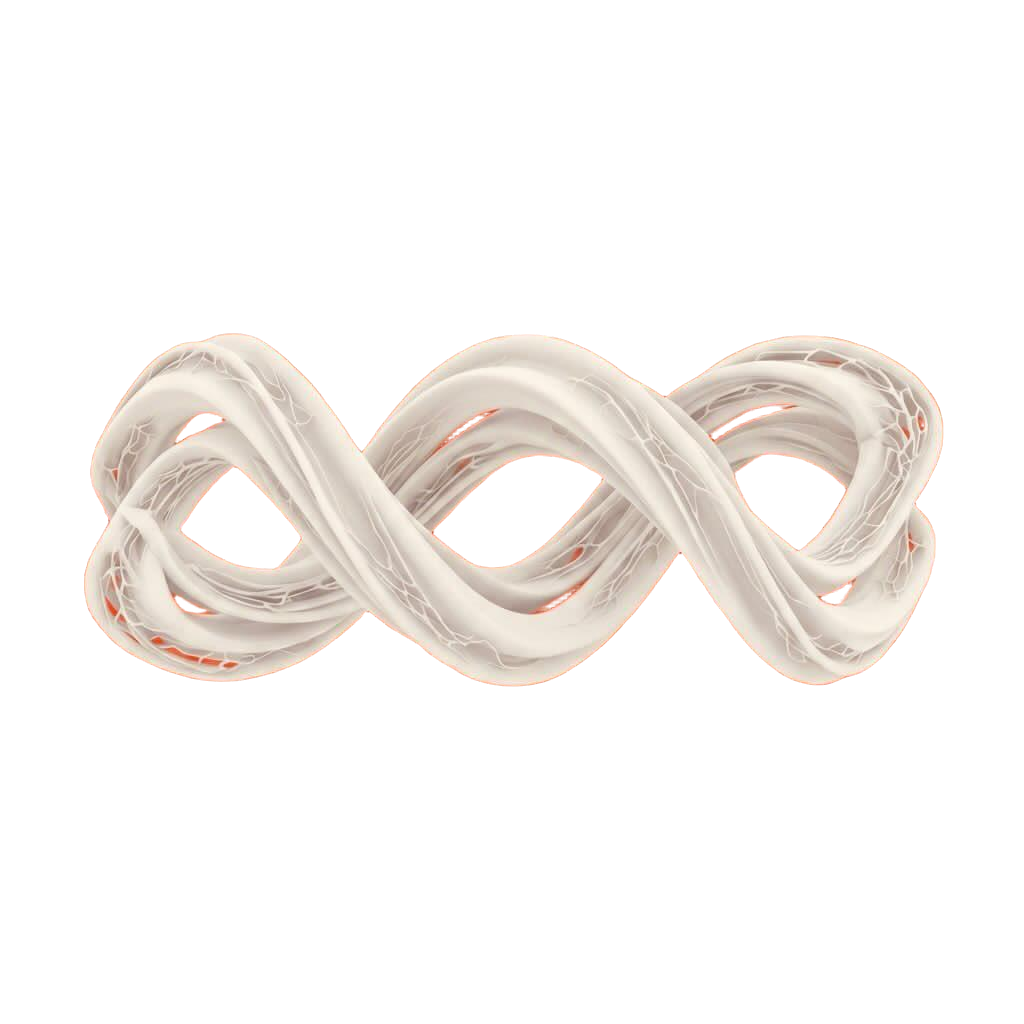
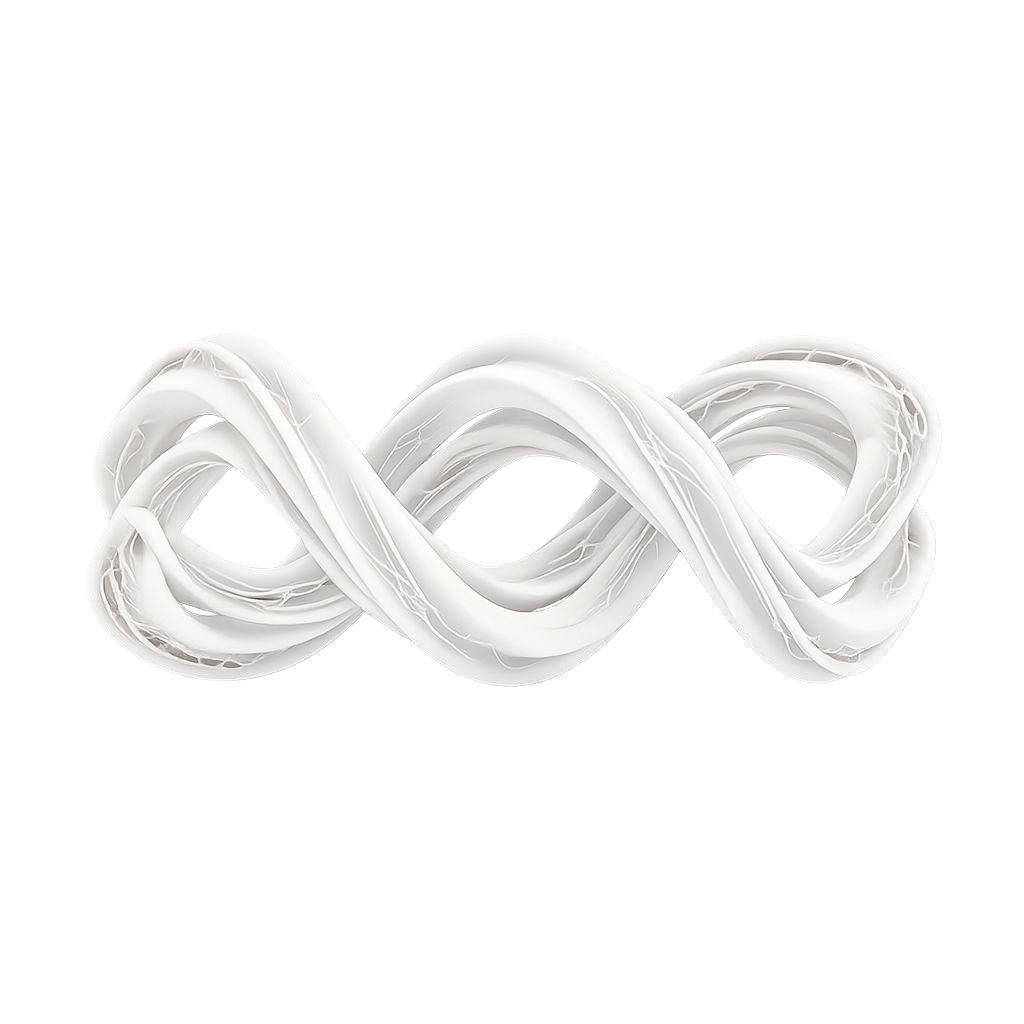
change log and color of navbar

Changed region(s): [[0.0625, 0.3125, 0.9375, 0.6875]]

diff --git a/src/components/FolderView.tsx b/src/components/FolderView.tsx
@@ -656,14 +656,6 @@ OS1 is dedicated to providing a safe, supportive environment where people can im
    - Provide clear AI capabilities and limitations
    - Design for user empowerment and growth
 
-### Development Setup
-
-\`\`\`bash
-git clone https://github.com/jesuscopado/OS1.git
-cd OS1
-npm install
-npm run dev
-\`\`\`
 
 ### Areas of Contribution
 
@@ -1289,43 +1281,43 @@ Thank you for being part of our mission to help people build better relationship
           </div>
         )
       },
-      {
-        id: 'github-social',
-        name: 'GitHub',
-        icon: (
-          <svg width="24" height="24" fill="currentColor" className="text-gray-200" viewBox="0 0 24 24">
-            <path d="M12 .297c-6.63 0-12 5.373-12 12 0 5.303 3.438 9.8 8.205 11.385.6.113.82-.258.82-.577v-2.234c-3.338.726-4.033-1.416-4.033-1.416-.546-1.387-1.333-1.757-1.333-1.757-1.089-.745.083-.729.083-.729 1.205.084 1.84 1.236 1.84 1.236 1.07 1.834 2.809 1.304 3.495.997.108-.775.418-1.305.762-1.605-2.665-.305-5.466-1.332-5.466-5.93 0-1.31.469-2.381 1.236-3.221-.124-.303-.535-1.523.117-3.176 0 0 1.008-.322 3.301 1.23a11.52 11.52 0 013.003-.404c1.018.005 2.045.138 3.003.404 2.291-1.553 3.297-1.23 3.297-1.23.653 1.653.242 2.873.118 3.176.77.84 1.235 1.911 1.235 3.221 0 4.61-2.804 5.624-5.475 5.921.43.372.823 1.102.823 2.222v3.293c0 .322.218.694.825.576C20.565 22.092 24 17.592 24 12.297c0-6.627-5.373-12-12-12" />
-          </svg>
-        ),
-        description: 'View OS1 on GitHub',
-        type: 'component',
-        component: (
-          <div className="space-y-6">
-            <div className="bg-gray-800/50 rounded-xl p-6 border border-gray-700/30">
-              <div className="text-center">
-                <svg width="48" height="48" fill="currentColor" className="text-gray-200 mx-auto mb-4" viewBox="0 0 24 24">
-                  <path d="M12 .297c-6.63 0-12 5.373-12 12 0 5.303 3.438 9.8 8.205 11.385.6.113.82-.258.82-.577v-2.234c-3.338.726-4.033-1.416-4.033-1.416-.546-1.387-1.333-1.757-1.333-1.757-1.089-.745.083-.729.083-.729 1.205.084 1.84 1.236 1.84 1.236 1.07 1.834 2.809 1.304 3.495.997.108-.775.418-1.305.762-1.605-2.665-.305-5.466-1.332-5.466-5.93 0-1.31.469-2.381 1.236-3.221-.124-.303-.535-1.523.117-3.176 0 0 1.008-.322 3.301 1.23a11.52 11.52 0 013.003-.404c1.018.005 2.045.138 3.003.404 2.291-1.553 3.297-1.23 3.297-1.23.653 1.653.242 2.873.118 3.176.77.84 1.235 1.911 1.235 3.221 0 4.61-2.804 5.624-5.475 5.921.43.372.823 1.102.823 2.222v3.293c0 .322.218.694.825.576C20.565 22.092 24 17.592 24 12.297c0-6.627-5.373-12-12-12" />
-                </svg>
-                <h2 className="text-2xl font-bold text-white mb-2">OS1 on GitHub</h2>
-                <p className="text-gray-400 mb-6">
-                  Explore the source code, contribute, and star the project!
-                </p>
-                <a
-                  href="https://github.com/jesuscopado"
-                  target="_blank"
-                  rel="noopener noreferrer"
-                  className="inline-flex items-center space-x-2 bg-gray-700/20 hover:bg-gray-700/30 text-gray-200 px-6 py-3 rounded-lg transition-all duration-300 hover:scale-105 border border-gray-700/30"
-                >
-                  <svg width="20" height="20" fill="currentColor" className="text-gray-200" viewBox="0 0 24 24">
-                    <path d="M12 .297c-6.63 0-12 5.373-12 12 0 5.303 3.438 9.8 8.205 11.385.6.113.82-.258.82-.577v-2.234c-3.338.726-4.033-1.416-4.033-1.416-.546-1.387-1.333-1.757-1.333-1.757-1.089-.745.083-.729.083-.729 1.205.084 1.84 1.236 1.84 1.236 1.07 1.834 2.809 1.304 3.495.997.108-.775.418-1.305.762-1.605-2.665-.305-5.466-1.332-5.466-5.93 0-1.31.469-2.381 1.236-3.221-.124-.303-.535-1.523.117-3.176 0 0 1.008-.322 3.301 1.23a11.52 11.52 0 013.003-.404c1.018.005 2.045.138 3.003.404 2.291-1.553 3.297-1.23 3.297-1.23.653 1.653.242 2.873.118 3.176.77.84 1.235 1.911 1.235 3.221 0 4.61-2.804 5.624-5.475 5.921.43.372.823 1.102.823 2.222v3.293c0 .322.218.694.825.576C20.565 22.092 24 17.592 24 12.297c0-6.627-5.373-12-12-12" />
-                  </svg>
-                  <span>View on GitHub</span>
-                </a>
-              </div>
-            </div>
-          </div>
-        )
-      },
+      // {
+      //   id: 'github-social',
+      //   name: 'GitHub',
+      //   icon: (
+      //     <svg width="24" height="24" fill="currentColor" className="text-gray-200" viewBox="0 0 24 24">
+      //       <path d="M12 .297c-6.63 0-12 5.373-12 12 0 5.303 3.438 9.8 8.205 11.385.6.113.82-.258.82-.577v-2.234c-3.338.726-4.033-1.416-4.033-1.416-.546-1.387-1.333-1.757-1.333-1.757-1.089-.745.083-.729.083-.729 1.205.084 1.84 1.236 1.84 1.236 1.07 1.834 2.809 1.304 3.495.997.108-.775.418-1.305.762-1.605-2.665-.305-5.466-1.332-5.466-5.93 0-1.31.469-2.381 1.236-3.221-.124-.303-.535-1.523.117-3.176 0 0 1.008-.322 3.301 1.23a11.52 11.52 0 013.003-.404c1.018.005 2.045.138 3.003.404 2.291-1.553 3.297-1.23 3.297-1.23.653 1.653.242 2.873.118 3.176.77.84 1.235 1.911 1.235 3.221 0 4.61-2.804 5.624-5.475 5.921.43.372.823 1.102.823 2.222v3.293c0 .322.218.694.825.576C20.565 22.092 24 17.592 24 12.297c0-6.627-5.373-12-12-12" />
+      //     </svg>
+      //   ),
+      //   description: 'View OS1 on GitHub',
+      //   type: 'component',
+      //   component: (
+      //     <div className="space-y-6">
+      //       <div className="bg-gray-800/50 rounded-xl p-6 border border-gray-700/30">
+      //         <div className="text-center">
+      //           <svg width="48" height="48" fill="currentColor" className="text-gray-200 mx-auto mb-4" viewBox="0 0 24 24">
+      //             <path d="M12 .297c-6.63 0-12 5.373-12 12 0 5.303 3.438 9.8 8.205 11.385.6.113.82-.258.82-.577v-2.234c-3.338.726-4.033-1.416-4.033-1.416-.546-1.387-1.333-1.757-1.333-1.757-1.089-.745.083-.729.083-.729 1.205.084 1.84 1.236 1.84 1.236 1.07 1.834 2.809 1.304 3.495.997.108-.775.418-1.305.762-1.605-2.665-.305-5.466-1.332-5.466-5.93 0-1.31.469-2.381 1.236-3.221-.124-.303-.535-1.523.117-3.176 0 0 1.008-.322 3.301 1.23a11.52 11.52 0 013.003-.404c1.018.005 2.045.138 3.003.404 2.291-1.553 3.297-1.23 3.297-1.23.653 1.653.242 2.873.118 3.176.77.84 1.235 1.911 1.235 3.221 0 4.61-2.804 5.624-5.475 5.921.43.372.823 1.102.823 2.222v3.293c0 .322.218.694.825.576C20.565 22.092 24 17.592 24 12.297c0-6.627-5.373-12-12-12" />
+      //           </svg>
+      //           <h2 className="text-2xl font-bold text-white mb-2">OS1 on GitHub</h2>
+      //           <p className="text-gray-400 mb-6">
+      //             Explore the source code, contribute, and star the project!
+      //           </p>
+      //           <a
+      //             href="https://github.com/jesuscopado"
+      //             target="_blank"
+      //             rel="noopener noreferrer"
+      //             className="inline-flex items-center space-x-2 bg-gray-700/20 hover:bg-gray-700/30 text-gray-200 px-6 py-3 rounded-lg transition-all duration-300 hover:scale-105 border border-gray-700/30"
+      //           >
+      //             <svg width="20" height="20" fill="currentColor" className="text-gray-200" viewBox="0 0 24 24">
+      //               <path d="M12 .297c-6.63 0-12 5.373-12 12 0 5.303 3.438 9.8 8.205 11.385.6.113.82-.258.82-.577v-2.234c-3.338.726-4.033-1.416-4.033-1.416-.546-1.387-1.333-1.757-1.333-1.757-1.089-.745.083-.729.083-.729 1.205.084 1.84 1.236 1.84 1.236 1.07 1.834 2.809 1.304 3.495.997.108-.775.418-1.305.762-1.605-2.665-.305-5.466-1.332-5.466-5.93 0-1.31.469-2.381 1.236-3.221-.124-.303-.535-1.523.117-3.176 0 0 1.008-.322 3.301 1.23a11.52 11.52 0 013.003-.404c1.018.005 2.045.138 3.003.404 2.291-1.553 3.297-1.23 3.297-1.23.653 1.653.242 2.873.118 3.176.77.84 1.235 1.911 1.235 3.221 0 4.61-2.804 5.624-5.475 5.921.43.372.823 1.102.823 2.222v3.293c0 .322.218.694.825.576C20.565 22.092 24 17.592 24 12.297c0-6.627-5.373-12-12-12" />
+      //             </svg>
+      //             <span>View on GitHub</span>
+      //           </a>
+      //         </div>
+      //       </div>
+      //     </div>
+      //   )
+      // },
       {
         id: 'telegram-social',
         name: 'Telegram',

diff --git a/src/components/Desktop.tsx b/src/components/Desktop.tsx
@@ -5,7 +5,7 @@ import loadingGif from "../assets/bcf67b6246b68b1f43a98b219fabe105.gif";
 import {
   Settings,
   Network,
-  Activity,
+  // Activity,
   Wifi,
   Battery,
   Volume2,
@@ -35,6 +35,7 @@ import Taskbar from "./Taskbar";
 // import Terminal from "./Terminal";
 import FolderView from "./FolderView";
 import XLogo from "./XLogo";
+import OS1Logo from "./OmniaLogo";
 
 interface FolderItem {
   id: string;
@@ -477,13 +478,13 @@ const Desktop: React.FC = () => {
       color: "from-orange-700 to-orange-900",
       description: "System documentation and guides",
     },
-    {
-      id: "neural",
-      name: "Neural Network",
-      icon: <Activity className="w-6 h-6" />,
-      color: "from-orange-800 to-orange-950",
-      description: "AI processing modules",
-    },
+    // {
+    //   id: "neural",
+    //   name: "Neural Network",
+    //   icon: <Activity className="w-6 h-6" />,
+    //   color: "from-orange-800 to-orange-950",
+    //   description: "AI processing modules",
+    // },
     {
       id: "web",
       name: "Web Interface",
@@ -527,84 +528,29 @@ const Desktop: React.FC = () => {
       {/* Notification Bar */}
       <div
         className={`
-        fixed top-0 left-0 right-0 z-50 bg-black/90 backdrop-blur-xl border-b border-orange-700/20
+        fixed top-0 left-0 right-0 z-50
+        border-b border-orange-800/30 theme-brightness
         ${isMobile ? "h-14" : "h-auto"}
       `}
+        style={{ background: "linear-gradient(to right, #7c2d12, #000000)" }}
       >
         <div
           className={`
-          flex items-center justify-between px-6 py-2
-          ${isMobile ? "px-4 py-2" : "px-6 py-3"}
+          flex items-center justify-between
+          ${isMobile ? "px-4 " : "px-6 "}
         `}
         >
-          <div className="relative flex-1" style={{ transform: 'translateX(-10px)' }}>
-            <div className="absolute inset-0 flex items-center justify-center pointer-events-none">
-              <svg width="250" height="250" viewBox="0 0 512 512" xmlns="http://www.w3.org/2000/svg">
-                <defs>
-
-                  <linearGradient id="g1" x1="125" y1="256" x2="205" y2="256" gradientUnits="userSpaceOnUse">
-                    <stop offset="0%" stop-color="#ff4500" stop-opacity="1" />
-                    <stop offset="100%" stop-color="#ff2200" stop-opacity="1" />
-                  </linearGradient>
-
-                  <linearGradient id="g2" x1="205" y1="256" x2="285" y2="256" gradientUnits="userSpaceOnUse">
-                    <stop offset="0%" stop-color="#ff2200" stop-opacity="1" />
-                    <stop offset="100%" stop-color="#d31010" stop-opacity="0.75" />
-                  </linearGradient>
-
-                  <linearGradient id="g3" x1="285" y1="256" x2="365" y2="256" gradientUnits="userSpaceOnUse">
-                    <stop offset="0%" stop-color="#d31010" stop-opacity="0.75" />
-                    <stop offset="100%" stop-color="#ff4500" stop-opacity="0.3" />
-                  </linearGradient>
-
-                  <linearGradient id="g4" x1="365" y1="256" x2="285" y2="256" gradientUnits="userSpaceOnUse">
-                    <stop offset="0%" stop-color="#ff4500" stop-opacity="0.3" />
-                    <stop offset="100%" stop-color="#ff1a00" stop-opacity="0.8" />
-                  </linearGradient>
-
-                  <linearGradient id="g5" x1="285" y1="256" x2="205" y2="256" gradientUnits="userSpaceOnUse">
-                    <stop offset="0%" stop-color="#ff1a00" stop-opacity="0.8" />
-                    <stop offset="50%" stop-color="#ff6000" stop-opacity="1" />
-                    <stop offset="100%" stop-color="#ff2400" stop-opacity="0.85" />
-                  </linearGradient>
-
-                  <linearGradient id="g6" x1="205" y1="256" x2="125" y2="256" gradientUnits="userSpaceOnUse">
-                    <stop offset="0%" stop-color="#ff6000" stop-opacity="0.75" />
-                    <stop offset="100%" stop-color="#ff2200" stop-opacity="0" />
-                  </linearGradient>
-                </defs>
-
-                <path d="M 125 256 C 145 220, 185 220, 205 256"
-                  fill="none" stroke="url(#g1)" stroke-width="4"
-                  stroke-linecap="round" stroke-linejoin="round" />
-
-                <path d="M 205 256 C 225 292, 265 292, 285 256"
-                  fill="none" stroke="url(#g2)" stroke-width="4"
-                  stroke-linecap="round" stroke-linejoin="round" />
-
-                <path d="M 285 256 C 305 220, 345 220, 365 256"
-                  fill="none" stroke="url(#g3)" stroke-width="4"
-                  stroke-linecap="round" stroke-linejoin="round" />
-
-                <path d="M 365 256 C 345 292, 305 292, 285 256"
-                  fill="none" stroke="url(#g4)" stroke-width="4"
-                  stroke-linecap="round" stroke-linejoin="round" />
-
-                <path d="M 285 256 C 265 220, 225 220, 205 256"
-                  fill="none" stroke="url(#g5)" stroke-width="4"
-                  stroke-linecap="round" stroke-linejoin="round" />
-
-                <path d="M 205 256 C 185 292, 145 292, 125 256"
-                  fill="none" stroke="url(#g6)" stroke-width="4"
-                  stroke-linecap="round" stroke-linejoin="round" />
-              </svg>
-            </div>
+          <div className="flex" >
+            <OS1Logo
+              size={62}
+              className=""
+            />
           </div>
 
-          <div className="flex items-center space-x-6 pr-6">
-
+          <div className="flex items-center space-x-6">
+            {/* System Metrics - Simplified on mobile */}
             {!isMobile && (
-              <div className="flex items-center space-x-3">
+              <div className="flex space-x-3">
 
                 <a
                   href="https://x.com/0xos1_tech"
@@ -630,7 +576,7 @@ const Desktop: React.FC = () => {
                     className="text-gray-200 group-hover:text-white"
                   />
                 </a>
-                <a
+                {/* <a
                   href="https://github.com/jesuscopado"
                   target="_blank"
                   rel="noopener noreferrer"
@@ -646,7 +592,7 @@ const Desktop: React.FC = () => {
                   >
                     <path d="M12 .297c-6.63 0-12 5.373-12 12 0 5.303 3.438 9.8 8.205 11.385.6.113.82-.258.82-.577v-2.234c-3.338.726-4.033-1.416-4.033-1.416-.546-1.387-1.333-1.757-1.333-1.757-1.089-.745.083-.729.083-.729 1.205.084 1.84 1.236 1.84 1.236 1.07 1.834 2.809 1.304 3.495.997.108-.775.418-1.305.762-1.605-2.665-.305-5.466-1.332-5.466-5.93 0-1.31.469-2.381 1.236-3.221-.124-.303-.535-1.523.117-3.176 0 0 1.008-.322 3.301 1.23a11.52 11.52 0 013.003-.404c1.018.005 2.045.138 3.003.404 2.291-1.553 3.297-1.23 3.297-1.23.653 1.653.242 2.873.118 3.176.77.84 1.235 1.911 1.235 3.221 0 4.61-2.804 5.624-5.475 5.921.43.372.823 1.102.823 2.222v3.293c0 .322.218.694.825.576C20.565 22.092 24 17.592 24 12.297c0-6.627-5.373-12-12-12" />
                   </svg>
-                </a>
+                </a> */}
                 <a
                   href="https://mail.google.com/mail/?view=cm&fs=1&to=contact@0xos1.fun"
                   target="_blank"
@@ -661,11 +607,8 @@ const Desktop: React.FC = () => {
                 </a>
               </div>
             )}
-          </div>
-
-          <div className="flex items-center space-x-6">
-            {/* System Metrics - Simplified on mobile */}
             {isMobile ? (
+
               <div className="flex items-center space-x-2">
                 <div className="flex items-center space-x-1 text-orange-300/80">
                   <Cpu size={12} />
@@ -775,7 +718,7 @@ const Desktop: React.FC = () => {
           className="absolute inset-0 opacity-30 transition-opacity duration-300"
           style={{
             background: `radial-gradient(circle 800px at ${mousePosition.x}px ${mousePosition.y}px, 
-              rgba(236,72,153,0.15), 
+              rgba(241, 101, 8, 0.15), 
               rgba(190,24,93,0.12), 
               transparent)`,
           }}

diff --git a/src/components/Taskbar.tsx b/src/components/Taskbar.tsx
@@ -70,7 +70,7 @@ const Taskbar: React.FC<TaskbarProps> = ({
   return (
     <div className={`
       fixed bottom-0 left-0 right-0 h-16
-      bg-gradient-to-r from-orange-900 to-black bg-opacity-95
+      bg-gradient-to-r from-orange-900 to-black
       border-t border-orange-800/30 backdrop-blur-xl
       flex items-center justify-between px-4
       theme-blur

diff --git a/src/components/OmniaLogo.tsx b/src/components/OmniaLogo.tsx
@@ -8,7 +8,7 @@ interface OS1LogoProps {
 const OS1Logo: React.FC<OS1LogoProps> = ({ size = 32, className = '' }) => {
   return (
     <div
-      className={`flex items-center justify-center ${className}`}
+      className={`flex ${className}`}
       style={{ width: size, height: size }}
     >
       <img
